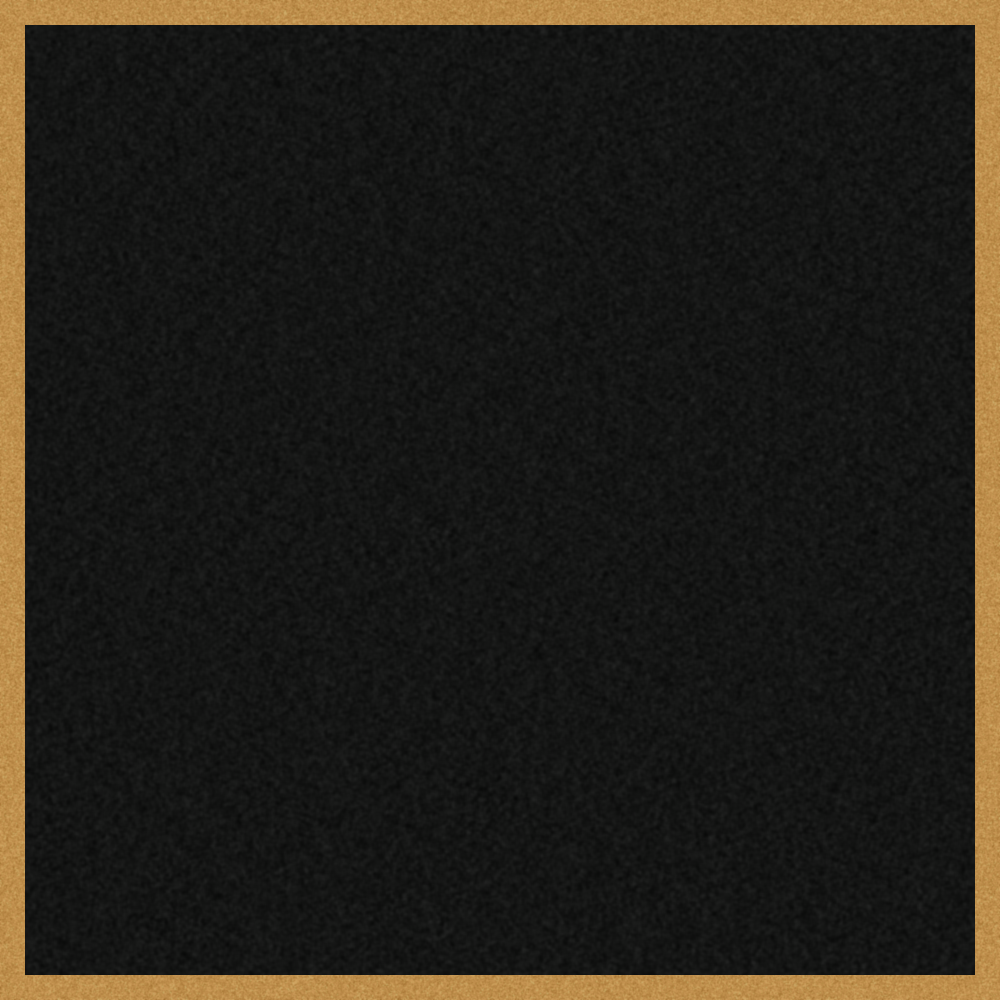
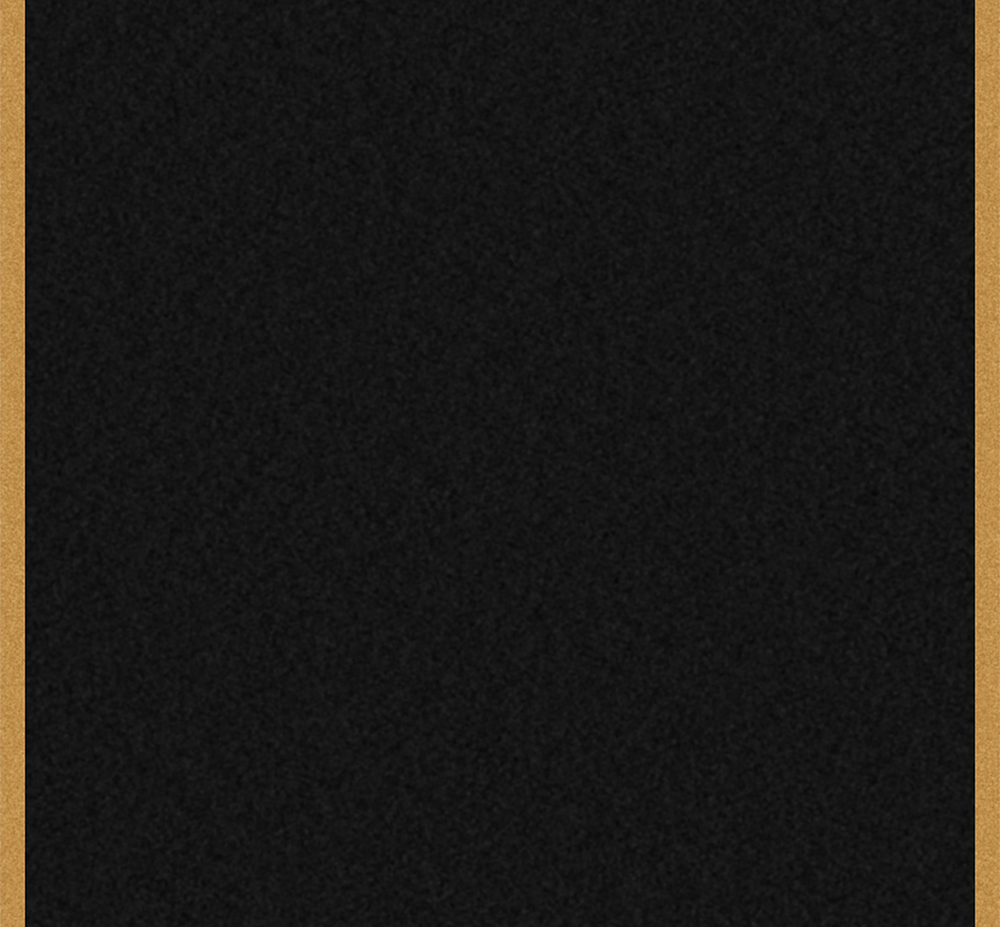
Add files via upload

Changed region(s): [[0.0, 0.9666, 0.992, 1.0], [0.0, 0.0, 0.992, 0.0302]]

diff --git a/index.html b/index.html
@@ -22,18 +22,41 @@
             <br>
             <div class="col-md-5 offset-md-1">
                 <br>
-                <img src="https://via.placeholder.com/400" class="foto img-fluid">
-                <p>alguma coisa n sei n sei oque la</p>
+                <img src="images/999.png" class="foto img-fluid">
+                <p class="branco">Fotografia do DSCP-999 por dentro de seus corredores.</p>
             </div>
             <div class="col-md-5">
                 <br>
-                <p class="azul">anbojrvoa</p>
+                <p class="azul um">DSCP-999</p>
+                <p><span class="azul">Tipo:</span><span class="verm"> Perigo</span></p>
+                <p><span class="azul">Aparencia: </span>O DSCP-999 é um local de dimensões desconhecidas que se estende abaixo da cidade de ███████, SP. O local é composto de uma série de túneis e câmaras, que parecem não ter fim e se estender em todas as direções. A profundidade máxima atingida até o momento é de ██ quilômetros, mas é possível que o DSCP-999 se estenda ainda mais.</p>
+                <p>A principal anomalia associada ao DSCP-999 é a sua capacidade de alterar a percepção de tempo e espaço. A passagem do tempo dentro dele parece ser significativamente mais lenta do que fora do local. Além disso, a sensação de espaço dentro do DSCP-999 é altamente distorcida, com indivíduos relatando a sensação de percorrer distâncias muito maiores do que as que realmente percorreram.</p>
             </div>
             <div class="col-md-10 offset-md-1">
                 <br>
-                <p>ajiegjap</p>
+                <p>Isso pode levar a situações em que os indivíduos se perdem dentro dele e não conseguem encontrar o caminho de volta.</p>
+                <p>Outra anomalia associada ao DSCP-999 é a presença de seres desconhecidos dentro do local. Esses seres são frequentemente descritos como sombras humanoides, que parecem se mover de forma fluida e silenciosa pelas câmaras e túneis do DSCP-999. Eles parecem ser hostis a qualquer ser vivo que entre no local, atacando-os sem hesitação.</p>
+                <p><span class="azul">Procedimentos Especiais de Contenção: </span>Devido à natureza instável e perigosa do DSCP-999, toda a cidade foi evacuada e os acessos ao local foram bloqueados. O site de contenção localizado nas proximidades é responsável por monitorar constantemente o DSCP-999 e coordenar esforços para impedir a sua expansão ou contenção de quaisquer eventos que possam ocorrer dentro do local.</p>
+                <p><span class="azul">Adendo DSCP-999-01: </span>A contenção do DSCP-999 é uma prioridade máxima da Fundação, e todos os esforços devem ser realizados para evitar a ocorrência de rupturas ou expansão. Todos os pesquisadores envolvidos com o DSCP-999 devem estar cientes dos riscos envolvidos e seguir todos os procedimentos de contenção e segurança para garantir a segurança de todos os envolvidos.</p>
+                <p><span class="azul">Adendo DSCP-999-02: </span>Os eventos mais preocupantes relacionados ao DSCP-999 ocorrem quando ocorrem "rupturas" dentro do local. Essas rupturas parecem ser pontos onde o espaço e o tempo dentro do DSCP-999 se tornam instáveis e caóticos, e criam fendas no espaço-tempo que se estendem para fora do DSCP-999. Essas fendas podem permitir que os seres desconhecidos entrem no mundo exterior, ou mesmo permitir que o próprio DSCP-999 se expanda e se espalhe pelo mundo.</p>
+                <p><span class="azul">Adendo DSCP-999-03: </span>As causas exatas dessas rupturas ainda não são compreendidas, mas acredita-se que elas estejam relacionadas à atividade dos seres desconhecidos dentro do DSCP-999. Como resultado, a contenção do DSCP-999 é considerada altamente perigosa e um esforço contínuo está em andamento para evitar a ocorrência de qualquer ruptura.</p>
+                <p><span class="azul">Nota: </span>O DSCP-999 é considerado um dos locais mais perigosos e imprevisíveis já descobertos pela Fundação. Todos os essforços para conter e estudar o DSCP-999 devem ser realizados com extremo cuidado, e nenhum pessoal da Fundação deve entrar no local sem aprovação expressa do Conselho ██ .</p>
+            </div>
+            <div class="col-md-10 offset-md-1">
+                <br>
+                <p class="azul um">Relatório de Exploração do DSCP-999</p>
+                <p><span class="azul">Data: </span>██/██/20██</p>
+                <p><span class="azul">Equipe de Exploração:</span> Dr. ███████, Agente █████, Agente █████</p>
+                <p><span class="azul"">Resumo da Missão: </span>A equipe entrou no DSCP-999 através de uma entrada descoberta recentemente. A descida foi feita com a ajuda de cordas, e a equipe levou equipamentos de proteção e comunicação. A descida inicial foi tranquila, e a equipe relatou a sensação de espaço distorcido nele. Após cerca de 30 minutos de caminhada, a equipe encontrou uma câmara ampla, com várias aberturas levando a túneis menores. A equipe dividiu-se em três grupos para explorar os túneis menores.</p>
+                <p>Após cerca de 10 minutos de exploração, o Agente █████ relatou ter visto uma sombra se movendo na parede do túnel. A equipe investigou, mas não encontrou nada. Pouco depois, o Dr. ███████ relatou que a passagem de tempo parecia estar mais lenta dentro do DSCP-999, e que a equipe deveria ter cuidado para não se perder.</p>
+                <p>Cerca de uma hora depois, o Agente █████ informou que a sua bússola não estava funcionando corretamente. A equipe tentou usar o GPS para se orientar, mas não havia sinal. A equipe continuou a explorar os túneis, mas não encontrou nada de interesse até que chegou a uma câmara menor. A câmara continha uma substância negra e viscosa que cobria as paredes e o chão. O Dr. ███████ pediu para coletarem amostras da substância para análise.</p>
+                <p>Enquanto a equipe coletava as amostras, o Agente █████ reportou ter visto outra sombra se movendo na câmara. A equipe investigou, mas não encontrou nada. Pouco depois, o Agente █████ relatou que a sensação de espaço distorcido estava mais forte, e que ele tinha dificuldade em se mover. A equipe tentou sair da câmara, mas encontrou a passagem bloqueada pela substância negra e viscosa.</p>
+                <p>A equipe tentou se comunicar com o site de contenção, mas a comunicação foi interrompida. A equipe decidiu tentar encontrar uma outra saída, mas encontrou a passagem bloqueada em todos os caminhos. A equipe decidiu retornar à câmara para avaliar a situação.</p>
+                <p>Ao retornar à câmara, a equipe encontrou uma sombra negra se movendo em direção a eles. A equipe tentou recuar, mas encontrou todas as passagens bloqueadas. A sombra atacou a equipe, e a comunicação foi interrompida.</p>
+                <p><span class="azul">Conclusão: </span>A equipe de exploração não retornou ao site de contenção, e a comunicação foi perdida.</p>
             </div>
         </div>
+        <img src="images/fundo4.png" style="width:inherit; float:inherit">
     </div>
 </body>
 </html>

diff --git a/estilo.css b/estilo.css
@@ -10,8 +10,7 @@
 .container
 {
     background-image: url("images/fundo3.png");
-    background-size: cover;
-    height: 1000px;
+    background-size:contain;
 }
 
 .bar
@@ -30,4 +29,26 @@
 .azul 
 {
     color: #333d77 !important;
+}
+
+.um
+{
+    font-size:larger;
+}
+
+.verm
+{
+    color: red !important;
+}
+
+.branco
+{
+    color:gainsboro !important;
+}
+
+.baixo
+{
+    background-image: url("images/fundo4.png");
+    background-size:contain;
+    width: auto;
 }
